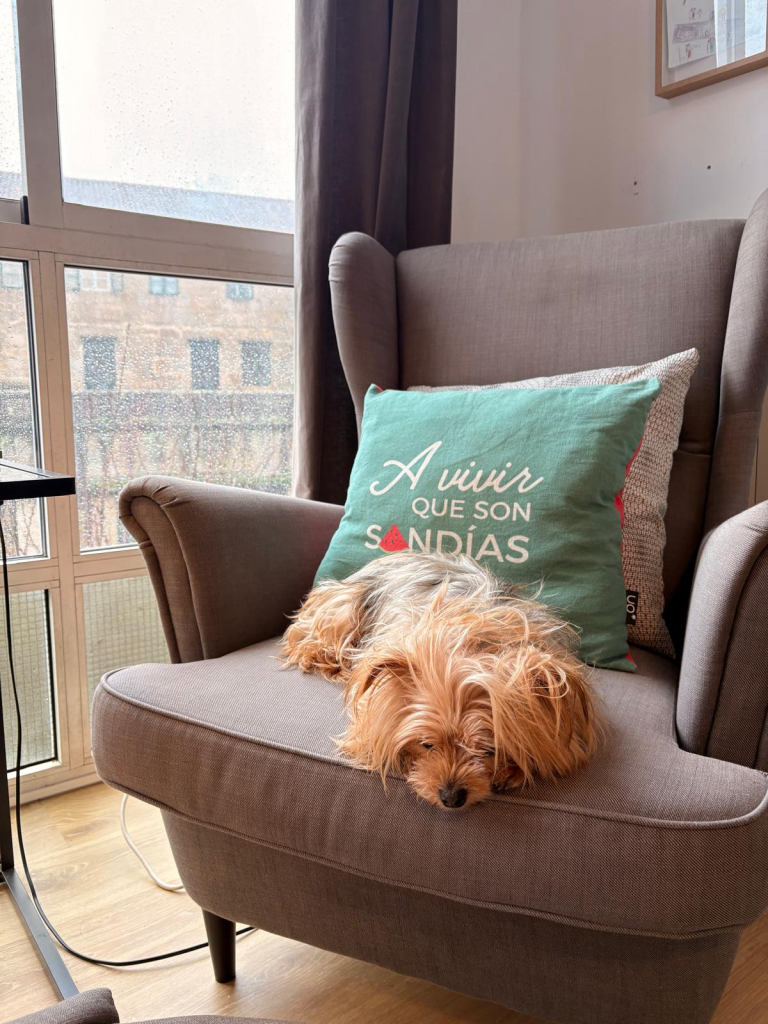
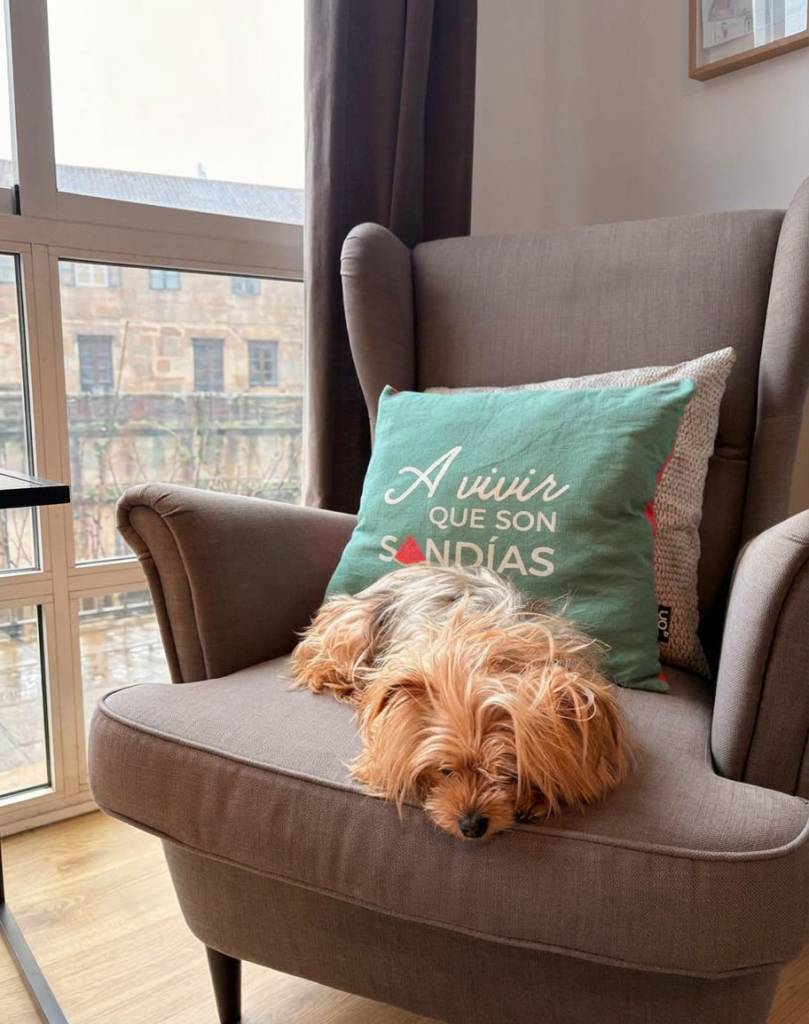
Replace Espacio gallery Pilita armchair photo with sandías pillow shot
Overwrite pilita-sillon-dormida.jpg and refresh the Salón caption alt text.

diff --git a/src/app/espacio/page.tsx b/src/app/espacio/page.tsx
@@ -41,7 +41,7 @@ const amenities = [
 const gallery = [
   {
     src: "/photos/blog/pilita-sillon-dormida.jpg",
-    alt: "Pilita, la perrita del coworking, dormida en el sillón gris del salón de Arroelo",
+    alt: "Pilita, la perrita del coworking, en el sillón del salón de Arroelo con el cojín «A vivir que son sandías»",
     label: "Salón",
   },
   {
